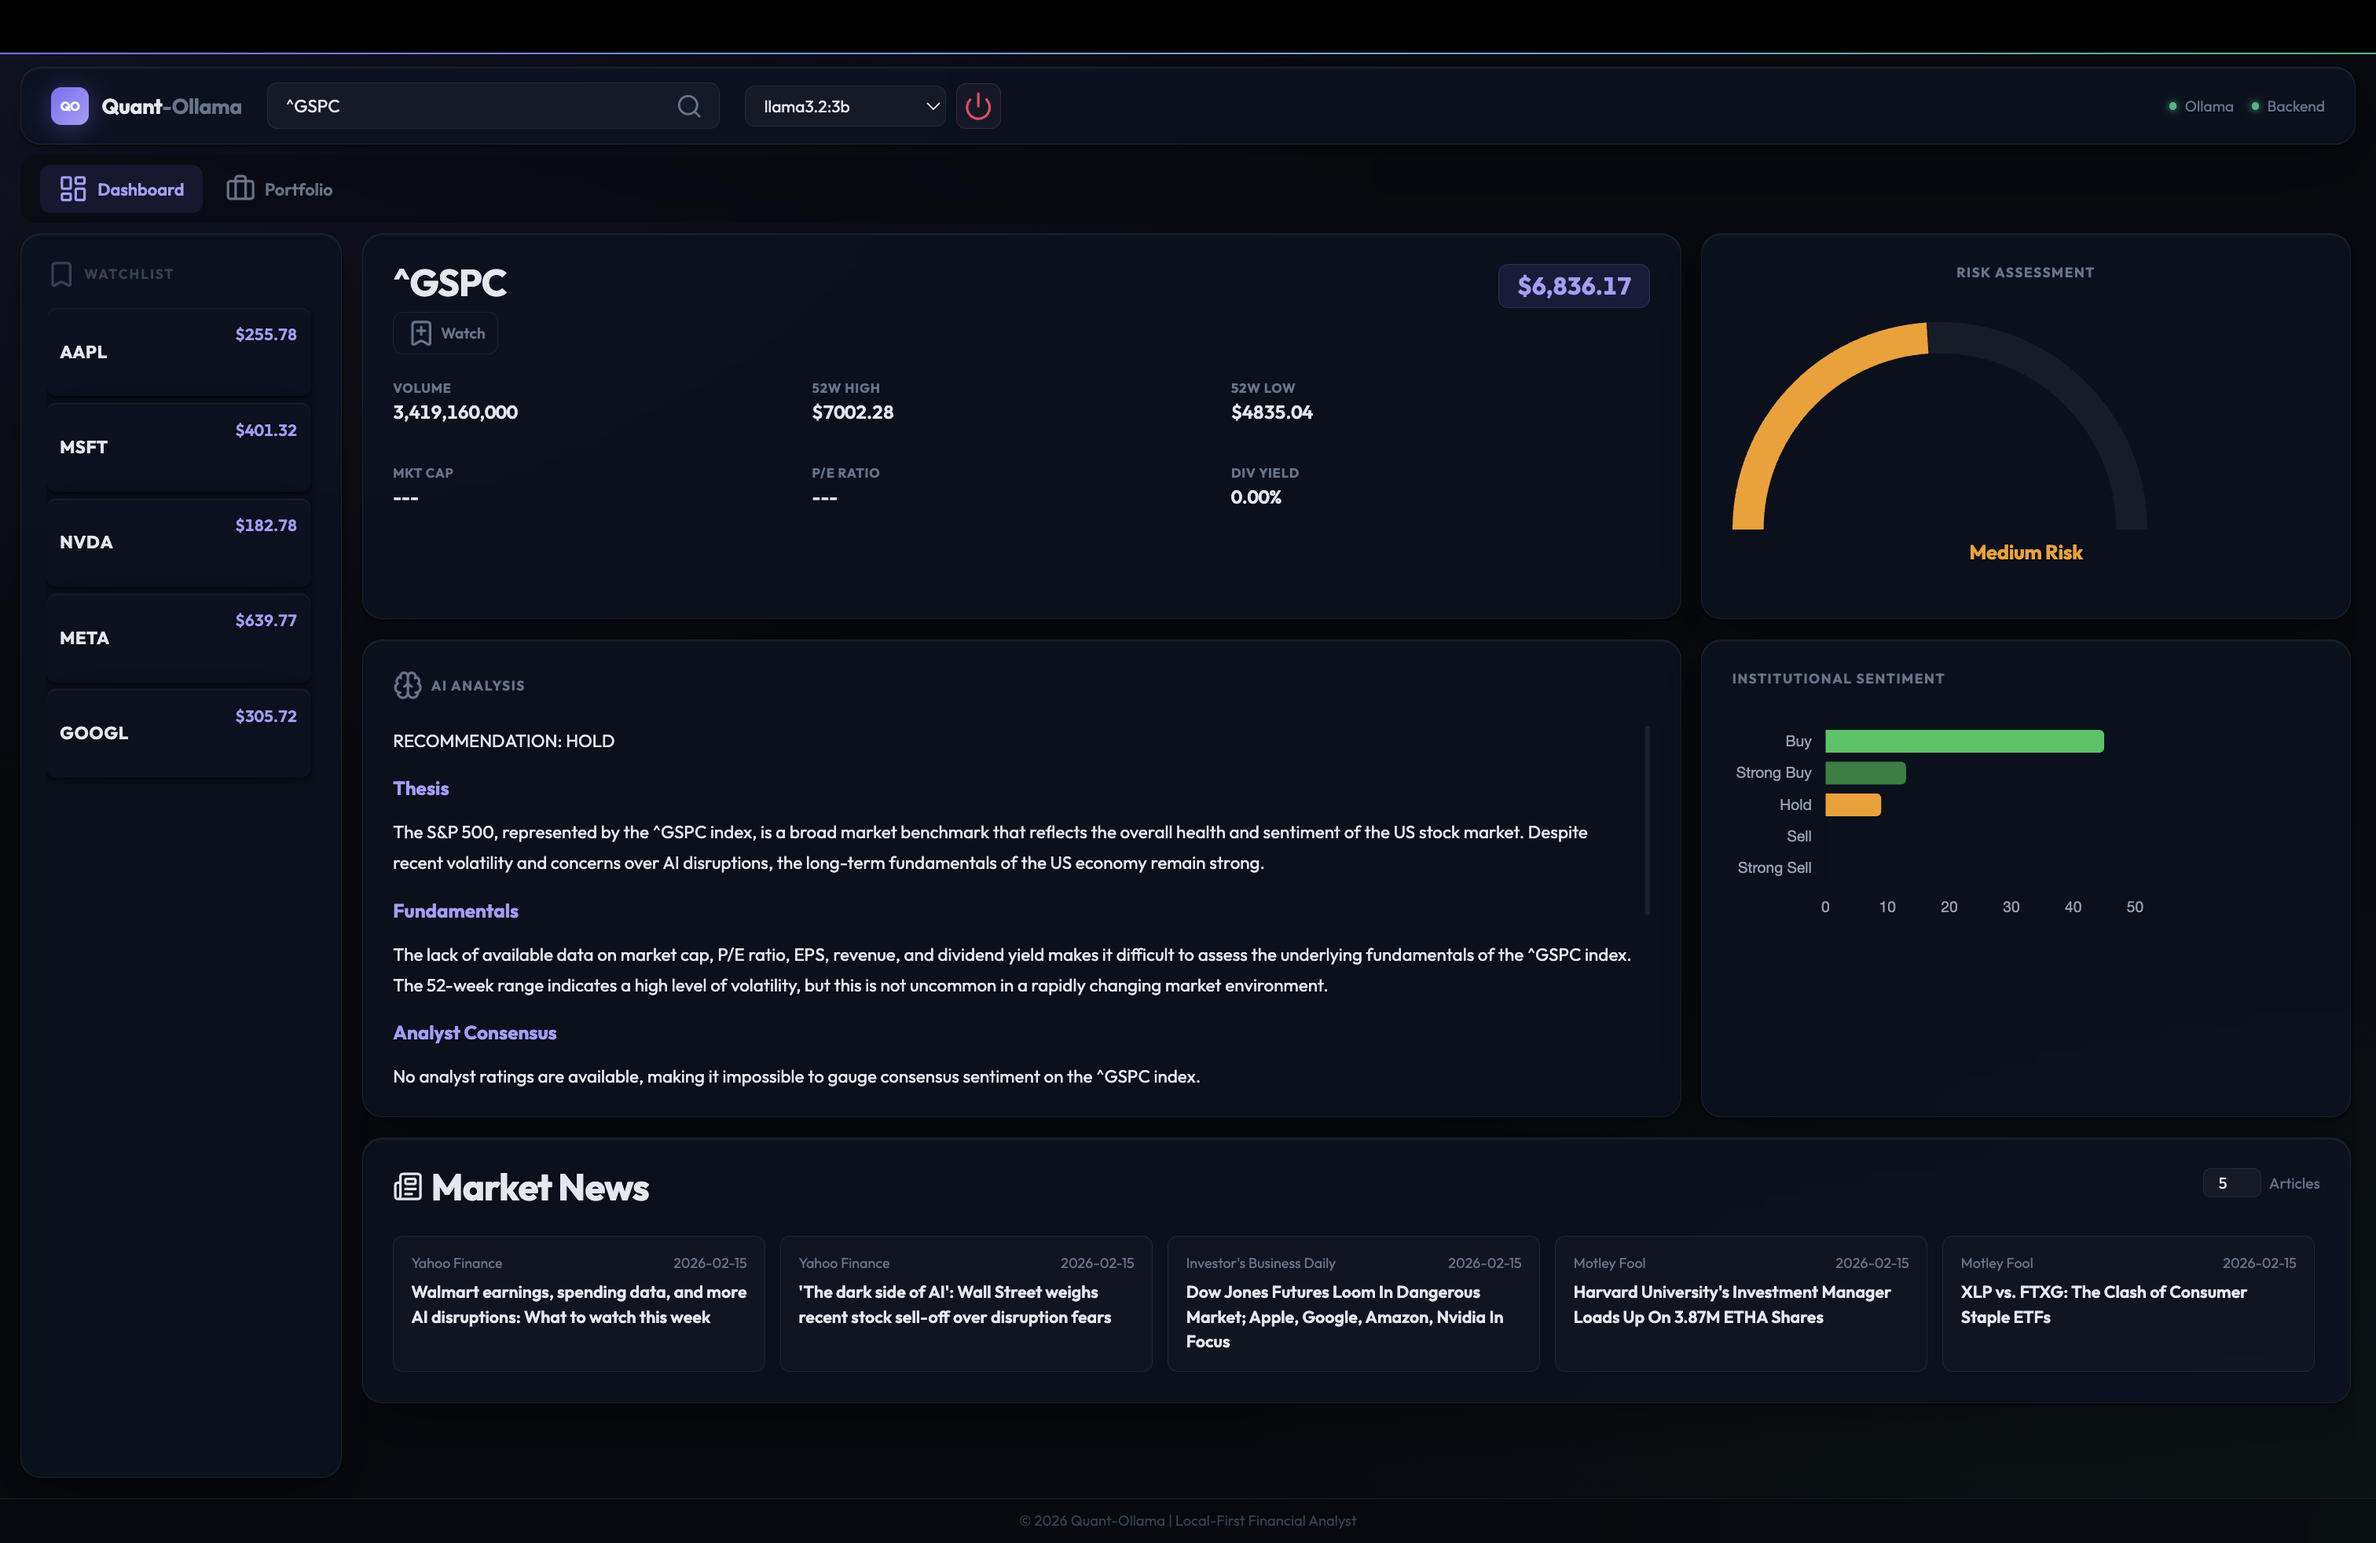
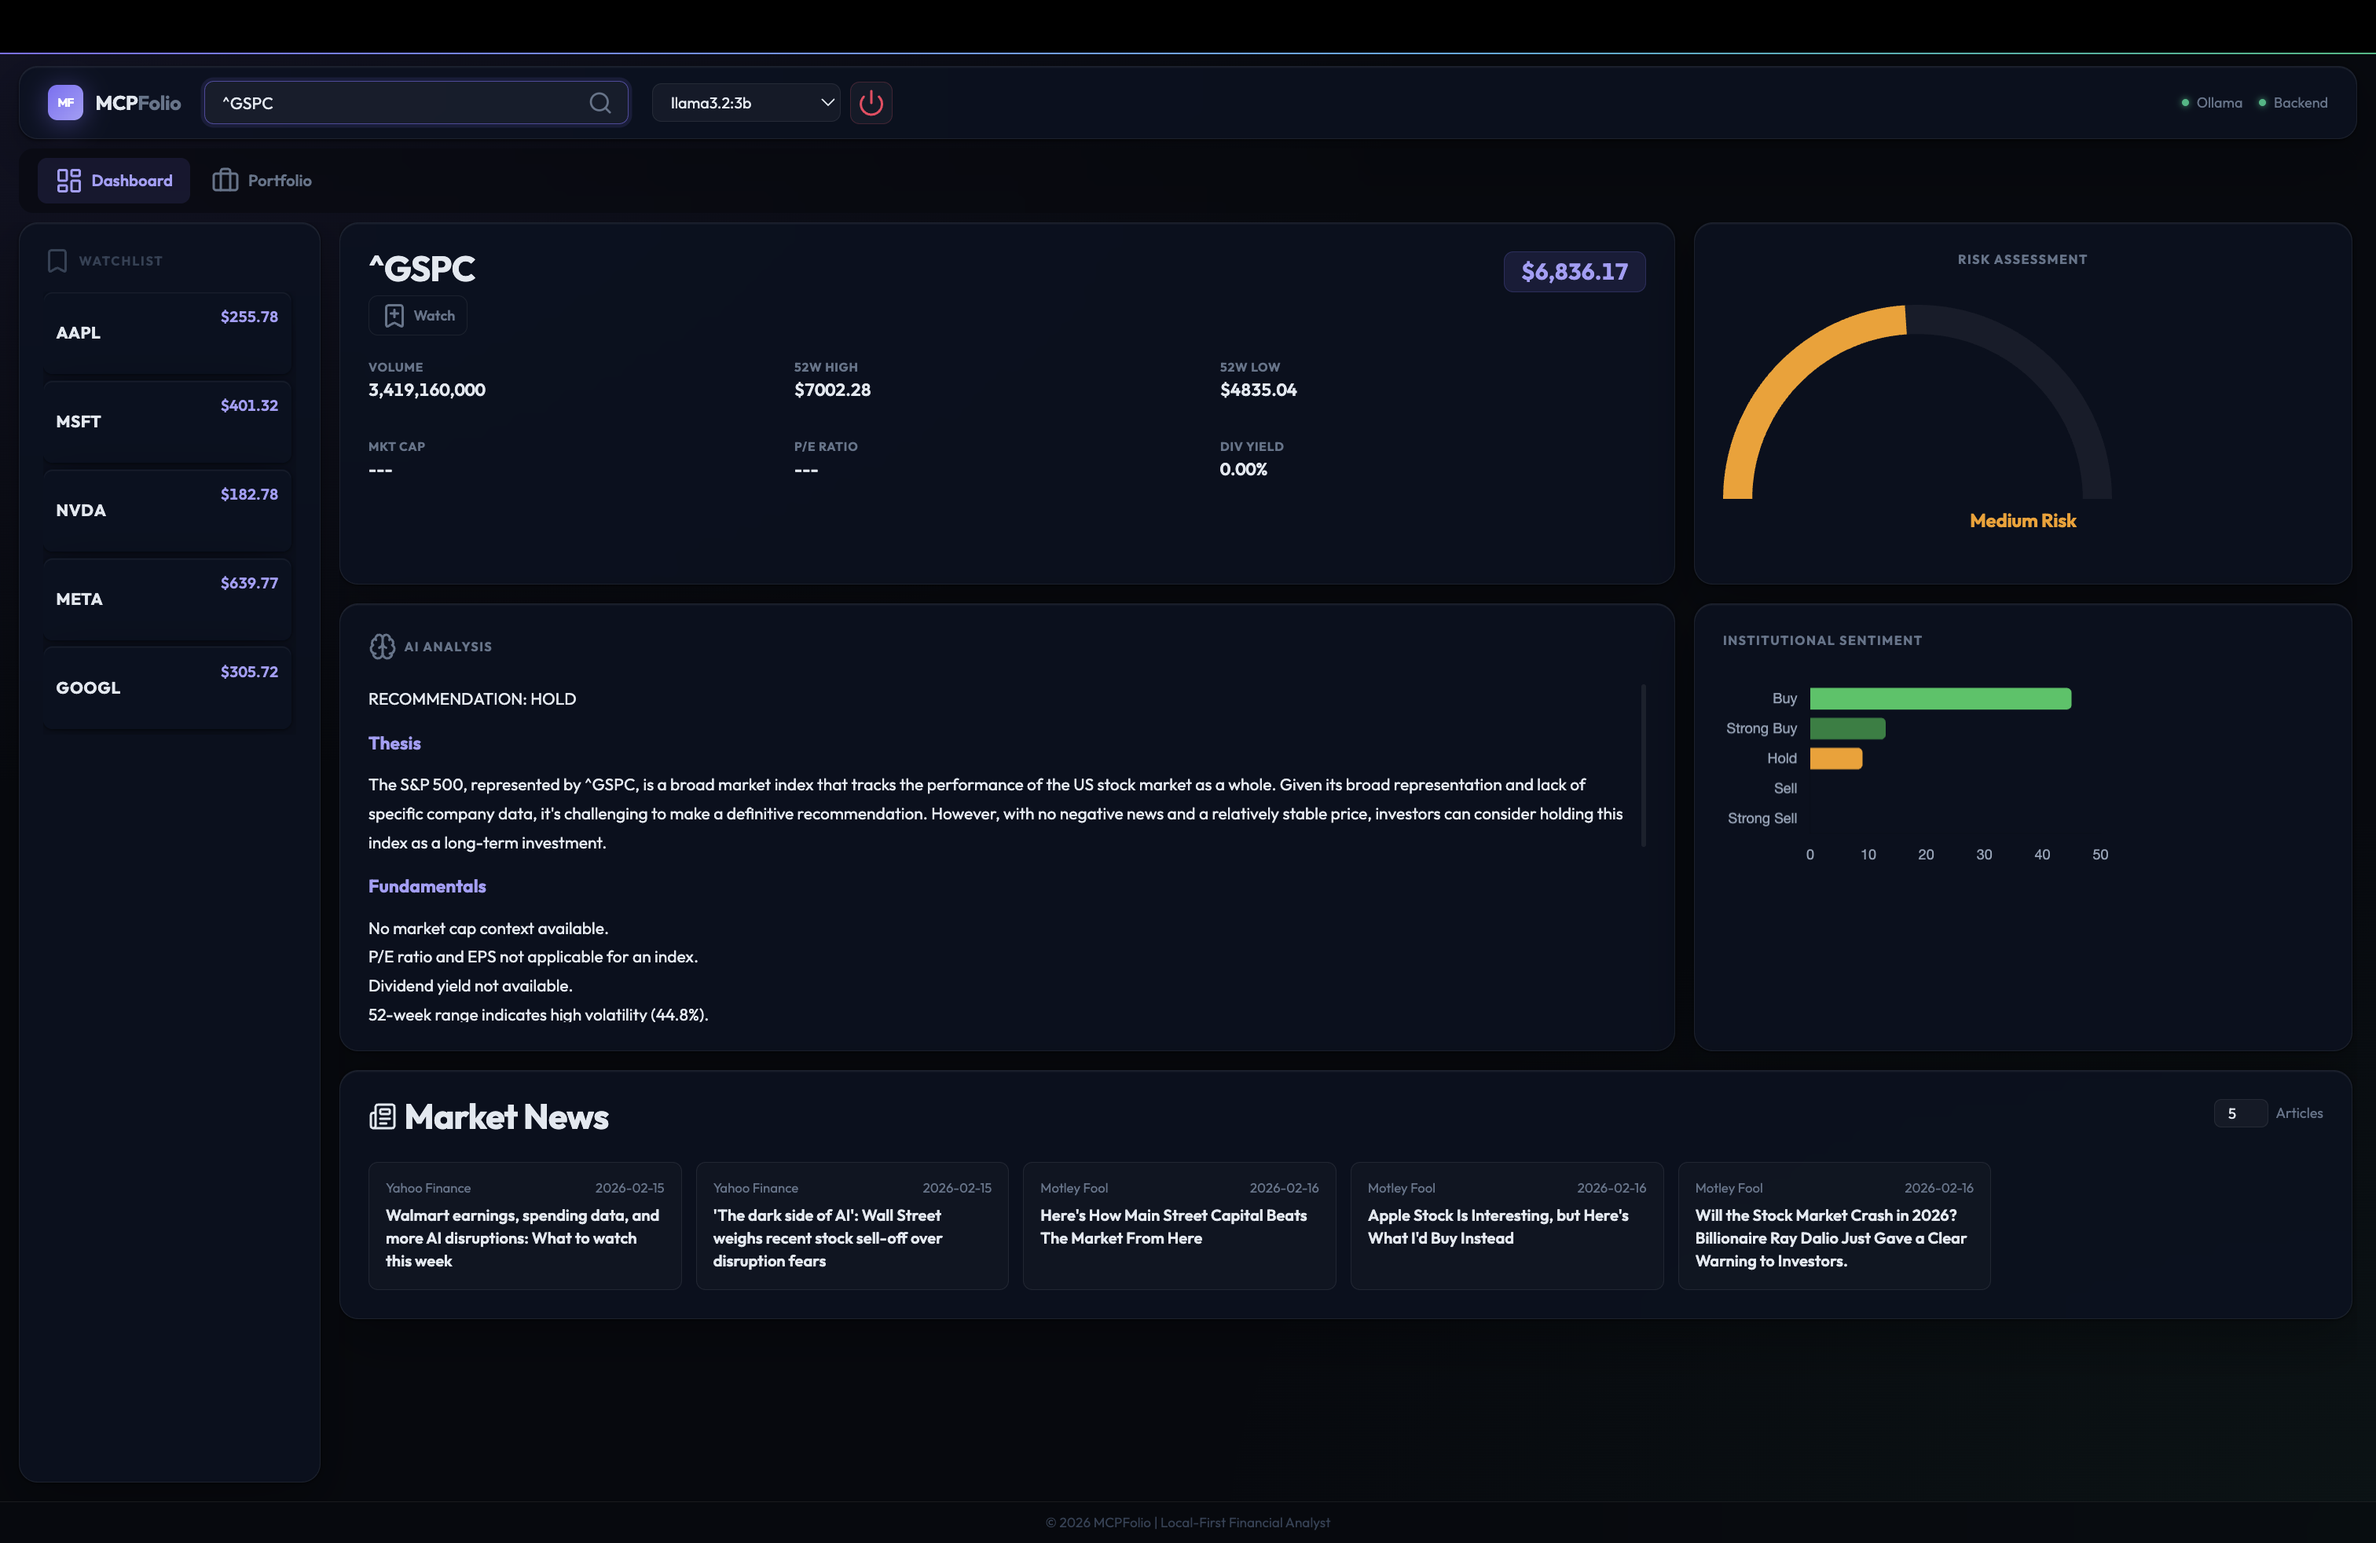
refactor: rename project from quant-ollama-analyst to MCPFolio
Renames all references, env var prefixes (QUANT_ → MCPFOLIO_), repo URLs,
package names, log file paths, and conda environment name across the entire
codebase, docs, scripts, and CI config.

diff --git a/src/web/frontend/index.html b/src/web/frontend/index.html
@@ -5,7 +5,7 @@
   <meta charset="UTF-8" />
   <link rel="icon" type="image/svg+xml" href="/vite.svg" />
   <meta name="viewport" content="width=device-width, initial-scale=1.0" />
-  <title>Quant-Ollama | Modern Financial Intelligence</title>
+  <title>MCPFolio | Modern Financial Intelligence</title>
   <link rel="preconnect" href="https://fonts.googleapis.com">
   <link rel="preconnect" href="https://fonts.gstatic.com" crossorigin>
   <link href="https://fonts.googleapis.com/css2?family=Outfit:wght@300;400;600;700&display=swap" rel="stylesheet">
@@ -18,8 +18,8 @@
   <div id="app">
     <header class="glass">
       <div class="logo">
-        <div class="logo-mark">QO</div>
-        <h1>Quant<span>-Ollama</span></h1>
+        <div class="logo-mark">MF</div>
+        <h1>MCP<span>Folio</span></h1>
       </div>
       <div class="search-box">
         <input type="text" id="ticker-input" placeholder="Search ticker..." autocomplete="off">
@@ -287,7 +287,7 @@
     </main>
 
     <footer class="glass-lite">
-      <p>&copy; 2026 Quant-Ollama | Local-First Financial Analyst</p>
+      <p>&copy; 2026 MCPFolio | Local-First Financial Analyst</p>
     </footer>
   </div>
   <script src="https://cdn.jsdelivr.net/npm/chart.js"></script>

diff --git a/src/web/frontend/src/style.css b/src/web/frontend/src/style.css
@@ -1,5 +1,5 @@
 /* ═══════════════════════════════════════════════════════════════════
-   Quant-Ollama — Design System v2  "Meridian Dark"
+   MCPFolio — Design System v2  "Meridian Dark"
    Signature indigo-violet identity · Emerald/Rose signal colors
    ═══════════════════════════════════════════════════════════════════ */
 

diff --git a/src/cli.py b/src/cli.py
@@ -23,8 +23,8 @@ from src.health import HealthCheck
 from src.logging_config import get_logger
 
 app = typer.Typer(
-    name="quant-ollama",
-    help="🤖 Quant-Ollama: Local-first autonomous financial analyst",
+    name="mcpfolio",
+    help="🤖 MCPFolio: Local-first autonomous financial analyst",
     add_completion=True,
 )
 
@@ -171,7 +171,7 @@ def interactive():
     """Start interactive analysis session"""
     console.print(
         Panel.fit(
-            "[bold cyan]Quant-Ollama Interactive Mode[/bold cyan]\n\n"
+            "[bold cyan]MCPFolio Interactive Mode[/bold cyan]\n\n"
             "Type a ticker symbol to analyze (or 'quit' to exit)",
             border_style="cyan",
         )
@@ -179,7 +179,7 @@ def interactive():
 
     while True:
         try:
-            ticker = Prompt.ask("\n[bold cyan]quant-ollama>[/bold cyan]", default="AAPL")
+            ticker = Prompt.ask("\n[bold cyan]mcpfolio>[/bold cyan]", default="AAPL")
 
             if ticker.lower() in ("quit", "exit", "q"):
                 if Confirm.ask("[yellow]Exit interactive mode?[/yellow]"):
@@ -227,7 +227,7 @@ async def _run_analysis(ticker: str, include_news: bool, include_sentiment: bool
     except httpx.ConnectError:
         console.print(
             "[red]✗ Cannot connect to API server[/red]\n"
-            "[yellow]Start the web server with:[/yellow] [cyan]quant-ollama web[/cyan]"
+            "[yellow]Start the web server with:[/yellow] [cyan]mcpfolio web[/cyan]"
         )
         return None
     except Exception as e:

diff --git a/src/web/main.py b/src/web/main.py
@@ -1,5 +1,5 @@
 """
-FastAPI web application for Quant-Ollama.
+FastAPI web application for MCPFolio.
 
 Provides REST API and WebSocket endpoints for financial analysis.
 """
@@ -336,7 +336,7 @@ async def lifespan(app: FastAPI):  # noqa: ARG001
 
 # Create FastAPI app
 app = FastAPI(
-    title="Quant-Ollama API",
+    title="MCPFolio API",
     version="0.2.1",
     description="Local-first financial analyst API",
     lifespan=lifespan,
@@ -699,7 +699,7 @@ async def root():
     <!DOCTYPE html>
     <html>
     <head>
-        <title>Quant-Ollama API</title>
+        <title>MCPFolio API</title>
         <style>
             body {
                 font-family: -apple-system, BlinkMacSystemFont, 'Segoe UI', Roboto, sans-serif;
@@ -713,7 +713,7 @@ async def root():
         </style>
     </head>
     <body>
-        <h1>🤖 Quant-Ollama API</h1>
+        <h1>🤖 MCPFolio API</h1>
         <p>Local-first financial analyst API v0.2.0</p>
 
         <h2>Available Endpoints:</h2>
@@ -933,7 +933,7 @@ async def export_analysis(ticker: str, format: str = "json"):
 {analysis.ai_analysis}
 
 ---
-*Generated by Quant-Ollama v0.2.0*
+*Generated by MCPFolio v0.2.0*
 """
         return PlainTextResponse(content=md, media_type="text/markdown")
 

diff --git a/src/config.py b/src/config.py
@@ -11,14 +11,14 @@ class Settings(BaseSettings):
     """
     Application configuration with environment variable support.
 
-    All settings can be overridden via environment variables with QUANT_ prefix.
-    Example: QUANT_OLLAMA_MODEL=llama3.2:3b
+    All settings can be overridden via environment variables with MCPFOLIO_ prefix.
+    Example: MCPFOLIO_OLLAMA_MODEL=llama3.2:3b
     """
 
     model_config = SettingsConfigDict(
         env_file=".env",
         env_file_encoding="utf-8",
-        env_prefix="QUANT_",
+        env_prefix="MCPFOLIO_",
         case_sensitive=False,
         extra="ignore",
     )
@@ -83,7 +83,7 @@ class Settings(BaseSettings):
         default="INFO", description="Logging level"
     )
 
-    log_file: str = Field(default="logs/quant-ollama.log", description="Log file path")
+    log_file: str = Field(default="logs/mcpfolio.log", description="Log file path")
 
     log_max_bytes: int = Field(
         default=10_000_000,

diff --git a/src/logging_config.py b/src/logging_config.py
@@ -1,5 +1,5 @@
 """
-Structured logging configuration for Quant-Ollama-Analyst
+Structured logging configuration for MCPFolio
 
 Uses structlog for structured, JSON-formatted logs with:
 - Request correlation IDs
@@ -89,7 +89,7 @@ def setup_logging(
     except ImportError:
         # Settings not available, use defaults
         log_level = log_level or "INFO"
-        log_file = log_file or "logs/quant-ollama.log"
+        log_file = log_file or "logs/mcpfolio.log"
         max_bytes = max_bytes or 10_000_000
         backup_count = backup_count or 5
         json_logs = json_logs if json_logs is not None else True

diff --git a/src/main.py b/src/main.py
@@ -1,4 +1,4 @@
-"""Quant-Ollama: Local-first autonomous financial analyst."""
+"""MCPFolio: Local-first autonomous financial analyst."""
 
 import asyncio
 import os
@@ -125,7 +125,7 @@ async def main():
     # Clear terminal and show banner
     subprocess.run(["cls"] if os.name == "nt" else ["clear"], check=False)  # nosec
     banner = """========================================
-      Quant-Ollama Financial Analyst
+         MCPFolio
 ========================================
 
 A local-first, autonomous financial analyst designed to be your 'Sanity Check' layer.

diff --git a/tests/unit/test_config.py b/tests/unit/test_config.py
@@ -23,9 +23,9 @@ def test_settings_from_env_vars(monkeypatch):
     from config import reload_settings
 
     # Set environment variables
-    monkeypatch.setenv("QUANT_ENVIRONMENT", "production")
-    monkeypatch.setenv("QUANT_OLLAMA_MODEL", "llama3.2:1b")
-    monkeypatch.setenv("QUANT_LOG_LEVEL", "DEBUG")
+    monkeypatch.setenv("MCPFOLIO_ENVIRONMENT", "production")
+    monkeypatch.setenv("MCPFOLIO_OLLAMA_MODEL", "llama3.2:1b")
+    monkeypatch.setenv("MCPFOLIO_LOG_LEVEL", "DEBUG")
 
     # Reload settings to pick up env vars
     settings = reload_settings()

diff --git a/src/export.py b/src/export.py
@@ -142,7 +142,7 @@ def export_to_markdown(data: dict, output_path: str | Path) -> Path:
 
         # Footer
         md_content += "---\n\n"
-        md_content += "*Generated by Quant-Ollama v0.2.0*\n"
+        md_content += "*Generated by MCPFolio v0.2.0*\n"
         md_content += f"*Report Date: {datetime.now().strftime('%Y-%m-%d %H:%M:%S')}*\n"
 
         # Write to file

diff --git a/tests/test_logging.py b/tests/test_logging.py
@@ -67,7 +67,7 @@ def test_log_file_creation():
     from pathlib import Path
 
     print("\nChecking log file creation...")
-    log_file = Path("logs/quant-ollama.log")
+    log_file = Path("logs/mcpfolio.log")
 
     if log_file.exists():
         print(f"✓ Log file created: {log_file}")

diff --git a/tests/integration/test_logging_integration.py b/tests/integration/test_logging_integration.py
@@ -32,7 +32,7 @@ def test_log_file_creation(tmp_path):
 
     from logging_config import setup_logging
 
-    log_file = tmp_path / "quant-ollama.log"
+    log_file = tmp_path / "mcpfolio.log"
     setup_logging(log_file=str(log_file), enable_console=False)
 
     root = logging.getLogger()

diff --git a/src/prompts.py b/src/prompts.py
@@ -1,4 +1,4 @@
-"""Prompts for the Quant-Ollama Financial Analyst."""
+"""Prompts for the MCPFolio Financial Analyst."""
 
 SYSTEM_PROMPT = """You are a long-term investment analyst evaluating stocks on a 3-5+ year horizon.
 
